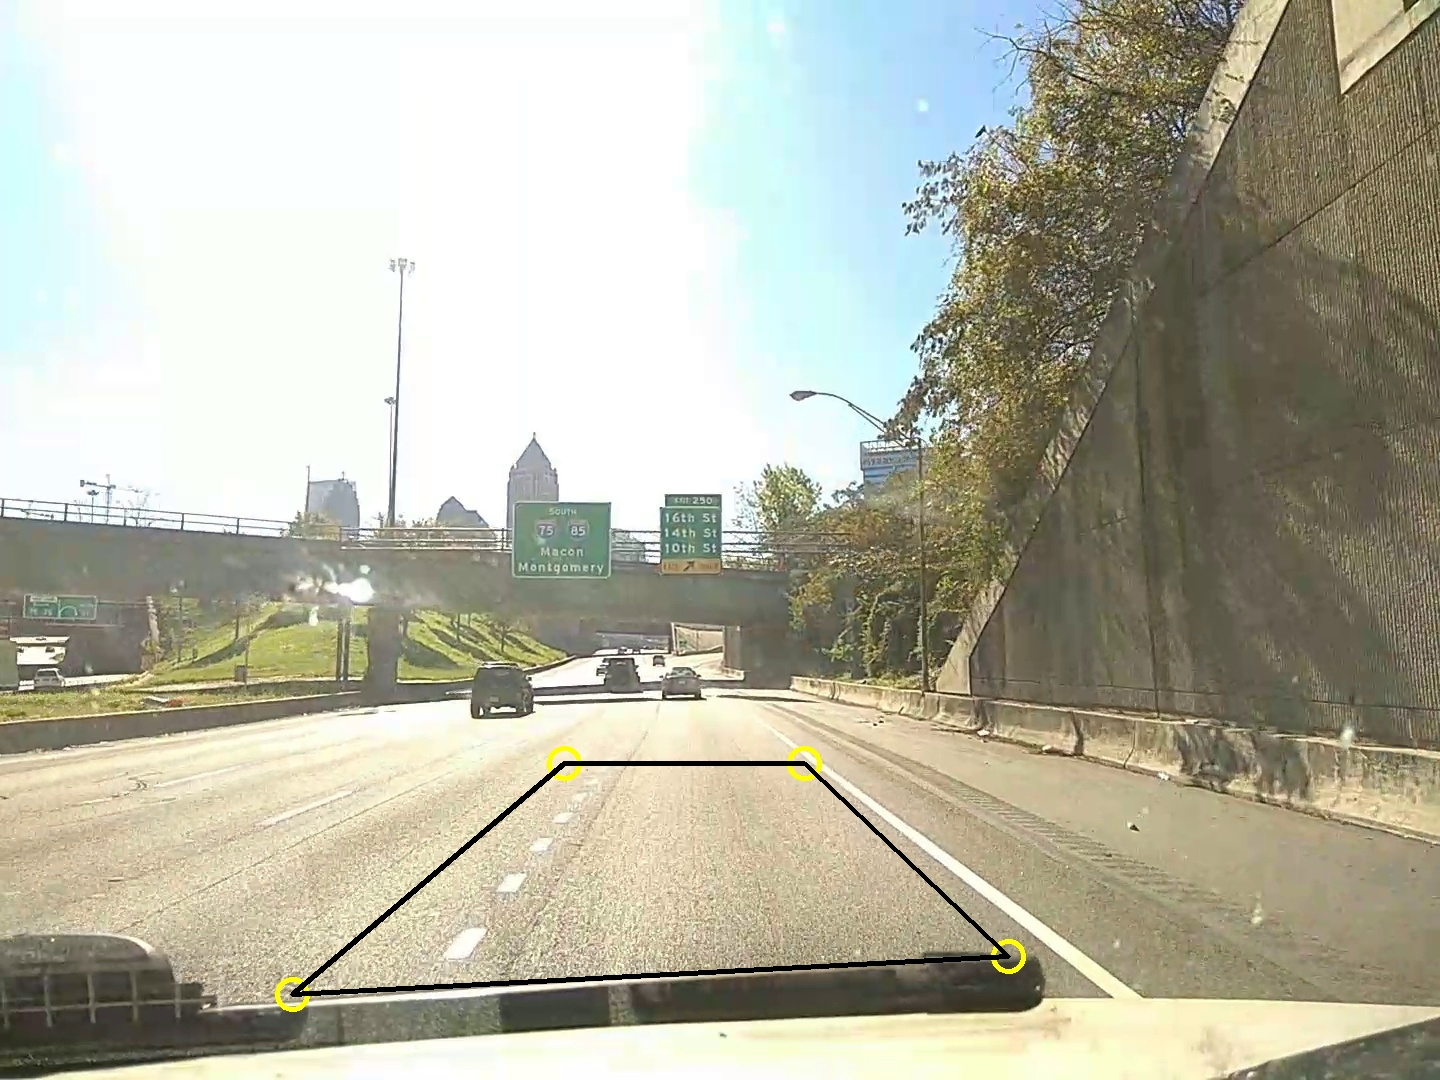
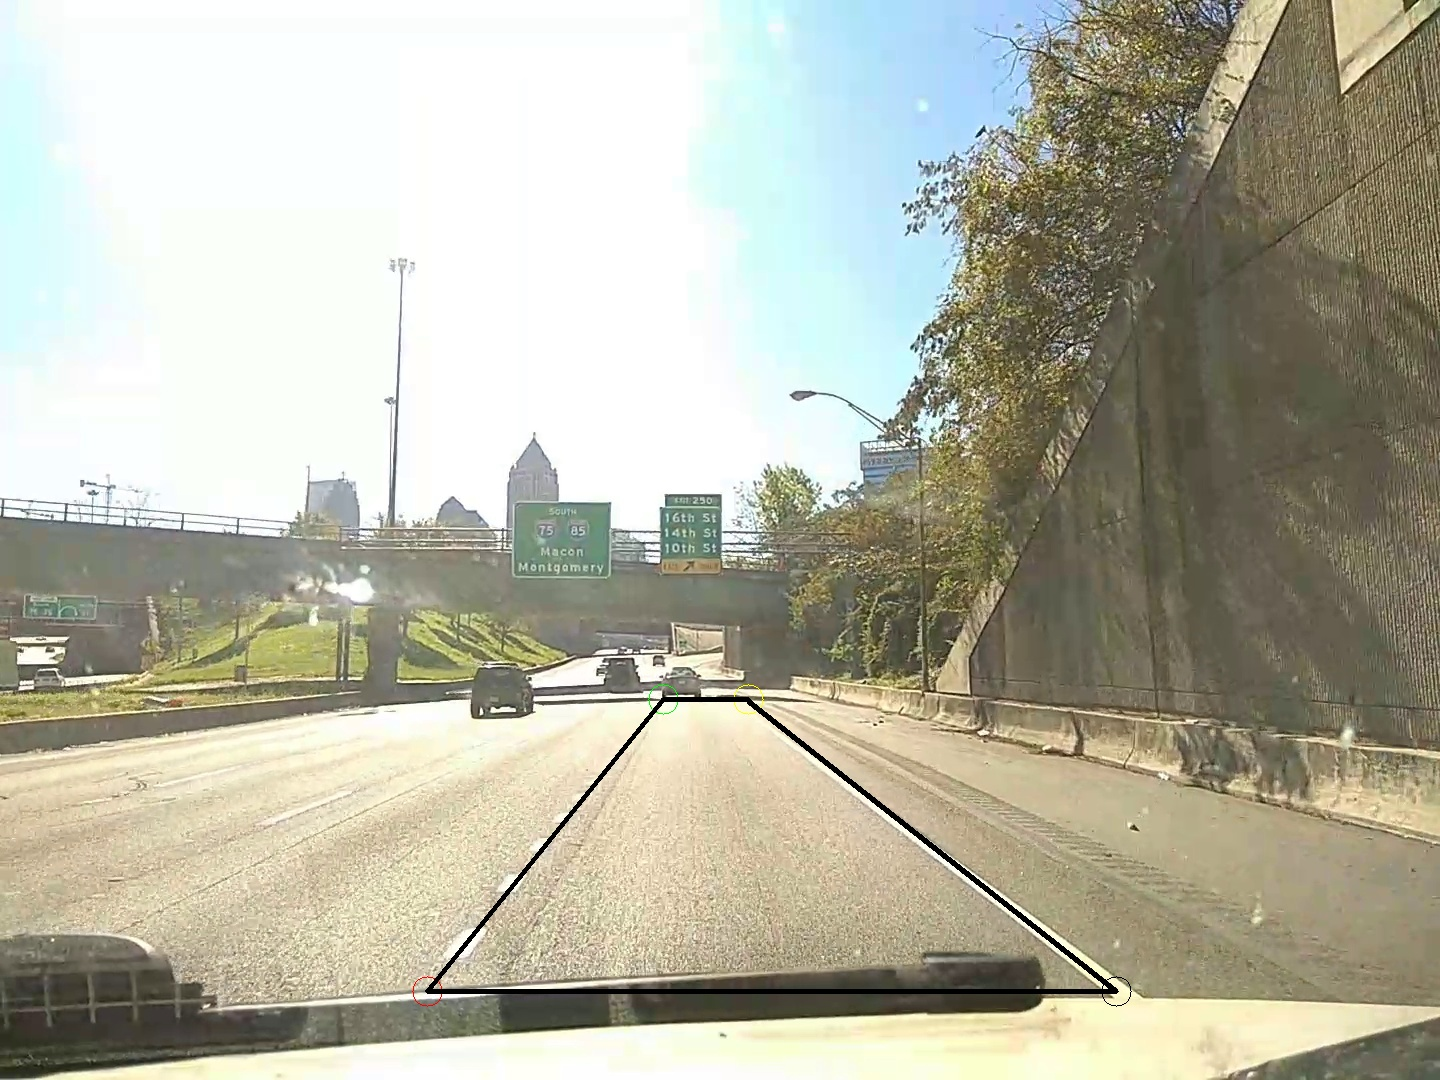
destination points

diff --git a/test_case_2.py b/test_case_2.py
@@ -8,26 +8,26 @@ plt.figure()
 plt.imshow(img)
 plt.show()
 
-cv2.circle(img,(292,994),15,(0,255,255),4)
-cv2.circle(img,(564,763),15,(0,255,255),4)
-cv2.circle(img,(804,763),15,(0,255,255),4)
-cv2.circle(img,(1008,956),15,(0,255,255),4)
+cv2.circle(img,(427,991),15,(0,0,255))
+cv2.circle(img,(663,699),15,(0,255,0))
+cv2.circle(img,(748,699),15,(0,255,255))
+cv2.circle(img,(1116,991),15,(0,0,0))
 
-cv2.line(img,(292,994),(564,763),(0,0,0),3)
-cv2.line(img,(292,994),(1008,956),(0,0,0),3)
-cv2.line(img,(564,763),(804,763),(0,0,0),3)
-cv2.line(img,(804,763),(1008,956),(0,0,0),3)
+cv2.line(img,(427,991),(663,699),(0,0,0),3)
+cv2.line(img,(663,699),(748,699),(0,0,0),3)
+cv2.line(img,(748,701),(1116,991),(0,0,0),3)
+cv2.line(img,(1116,991),(427,991),(0,0,0),3)
 
 h,w,_=img.shape
 cv2.imwrite('points2.jpg',img)
 
-source_points=np.float32([ [292,994],[564,763],[804,763],[1008,956]  ])
-destination_points = np.float32([ [0,1700], [0, 0], [230, 0], [230, 1700] ])
+source_points=np.float32([ [427,991],[663,699],[748,699],[1116,991]  ])
+destination_points = np.float32([ [0,1700], [0, 0], [300, 0], [500, 1700] ])
 
 
-image=cv2.imread('points.jpg')
+image=cv2.imread('points2.jpg')
 matrix = cv2.getPerspectiveTransform(source_points, destination_points)
-result = cv2.warpPerspective(image, matrix, (300,1700))
+result = cv2.warpPerspective(image, matrix, (400,1700))
 plt.figure()
 plt.imshow(result)
 plt.show()
